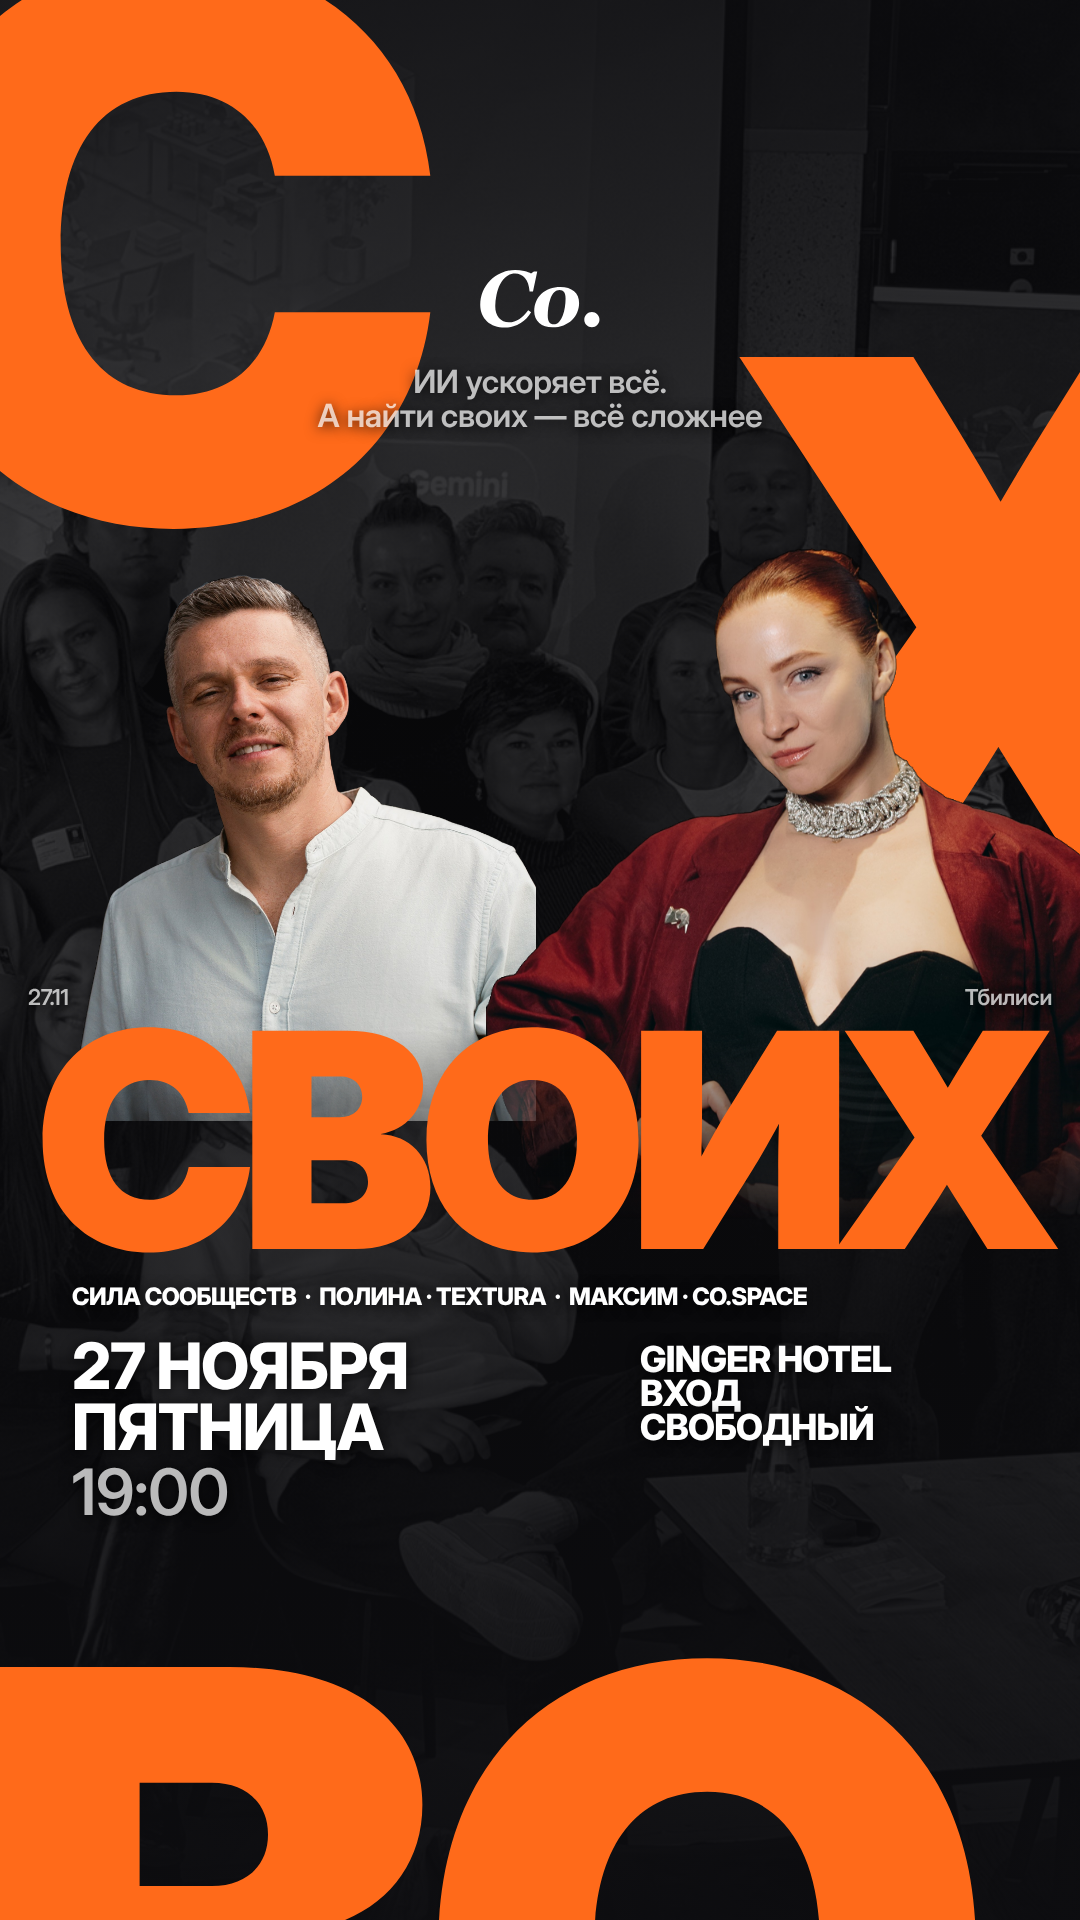
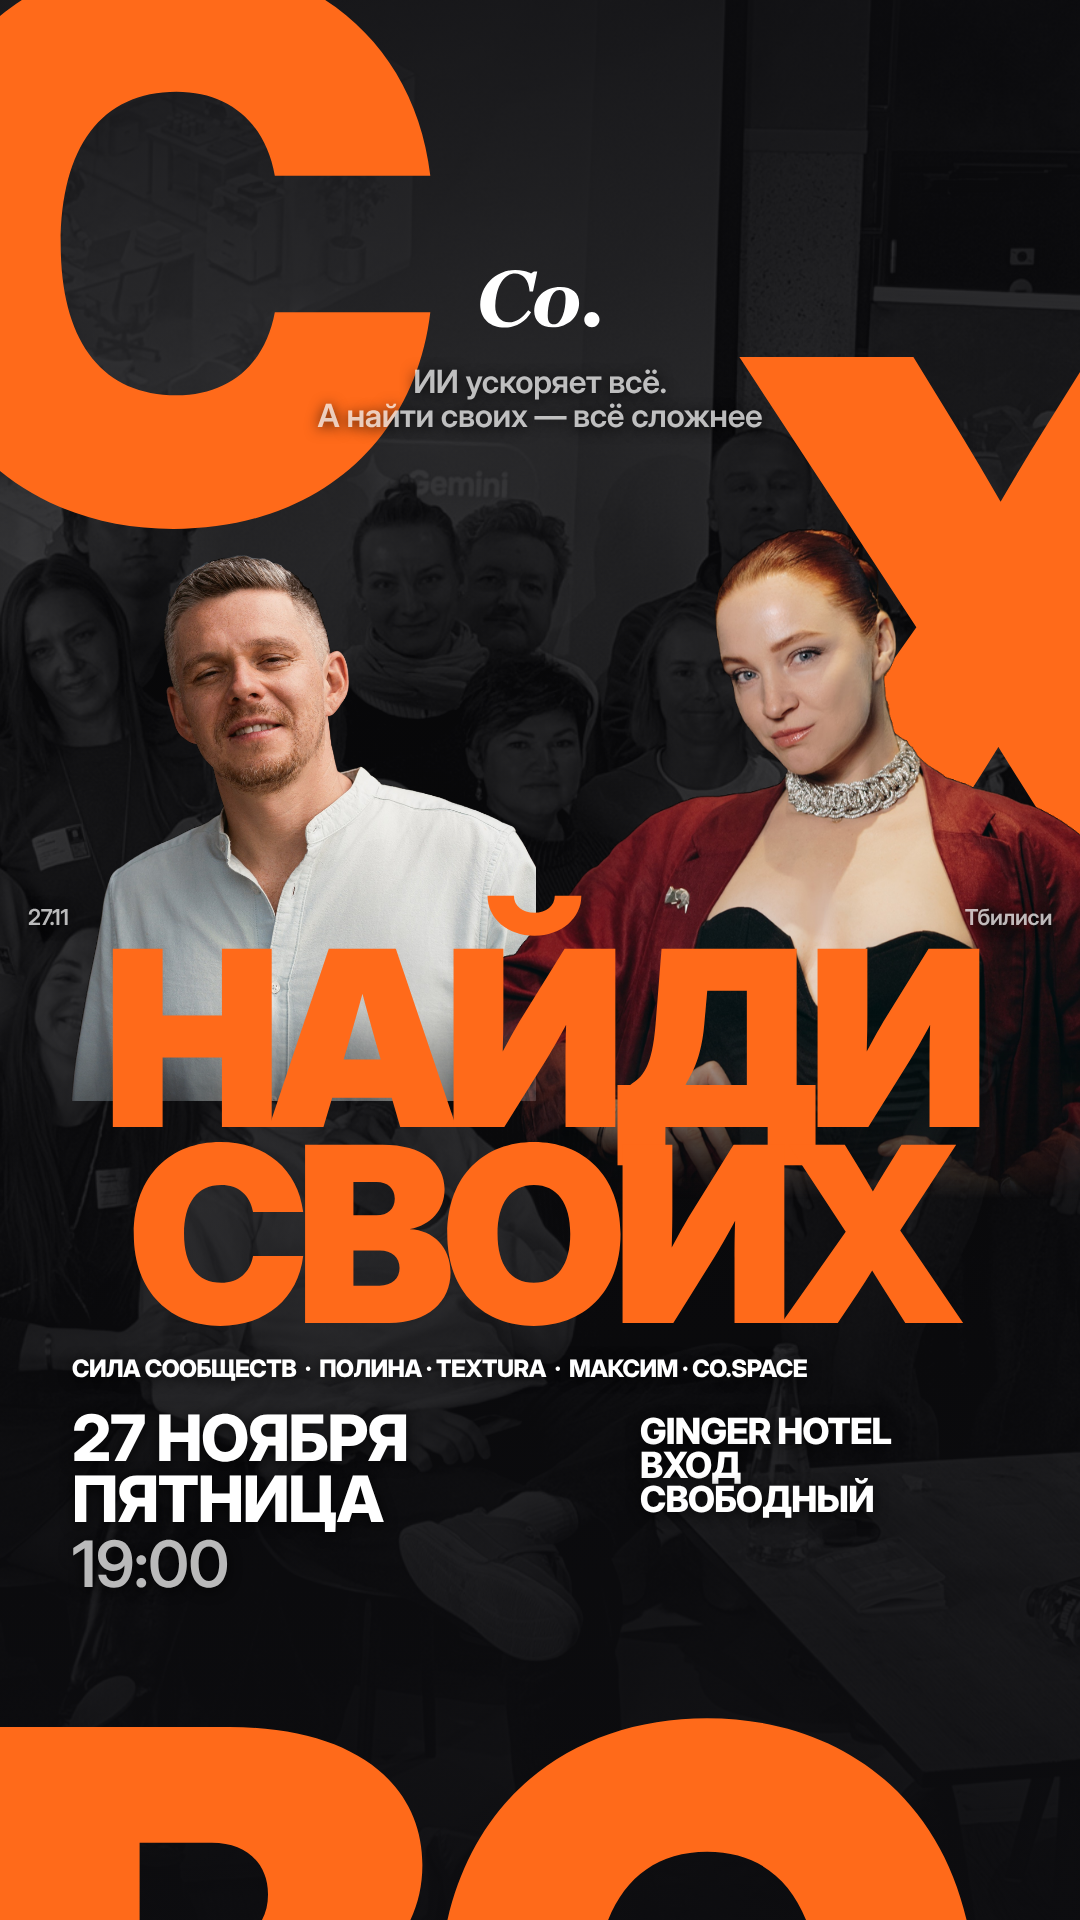
Вариант A: заголовок «НАЙДИ СВОИХ»
Claude-Session: https://claude.ai/code/session_01EUhV7vaX3V2s8FuVCAhgM5

Changed region(s): [[0.0, 0.2812, 1.0, 1.0], [0.8861, 0.9688, 0.9167, 1.0]]

diff --git a/creatives/src/poster/edA-9x16.html b/creatives/src/poster/edA-9x16.html
@@ -14,7 +14,7 @@ body{background:#0D0D10}
 .title{position:absolute;left:0;right:0;text-align:center;font-weight:900;color:#FF6A1A;letter-spacing:-.05em;line-height:.8}
 .logo svg{display:block}
 .logo svg path{fill:#fff}
-</style></head><body><div class="bg"></div><div class="sh"></div><div class="L" style="left:-110px;top:-60px;font-size:760px">С</div><div class="L" style="right:-170px;top:330px;font-size:760px">Х</div><div class="person" style="left:71px;top:575px;height:546px;-webkit-mask-image:linear-gradient(180deg,#000 83.3%,transparent 118.1%);"><img src="max_cut.png"></div><div class="person" style="left:486px;top:545px;height:910px;-webkit-mask-image:linear-gradient(180deg,#000 53.2%,transparent 74.1%);"><img src="polina_cut.png"></div><div class="L" style="left:-40px;top:1640px;font-size:760px">ВО</div><div class="title" style="top:1020px;font-size:300px">СВОИХ</div><div class="abs t" style="left:28px;top:986px;font-size:22px">27.11</div><div class="abs t" style="right:28px;top:986px;font-size:22px">Тбилиси</div><div class="abs t" style="left:0;right:0;top:365px;text-align:center;font-size:32px">ИИ ускоряет всё.<br>А найти своих — всё сложнее</div><div class="abs tb" style="left:72px;top:1286px;font-size:24px">СИЛА СООБЩЕСТВ &nbsp;·&nbsp; ПОЛИНА · TEXTURA &nbsp;·&nbsp; МАКСИМ · CO.SPACE</div><div class="abs" style="left:72px;top:1336px"><div class="tb" style="font-size:64px">27 НОЯБРЯ<br>ПЯТНИЦА</div><div class="t" style="font-size:64px">19:00</div></div><div class="abs tb" style="left:640px;top:1342px;font-size:36px">GINGER HOTEL<br>ВХОД<br>СВОБОДНЫЙ</div><div class="abs logo" style="left:50%;transform:translateX(-50%);top:270px"><svg width="120" height="59" viewBox="0 0 77 38" fill="none" xmlns="http://www.w3.org/2000/svg">
+</style></head><body><div class="bg"></div><div class="sh"></div><div class="L" style="left:-110px;top:-60px;font-size:760px">С</div><div class="L" style="right:-170px;top:330px;font-size:760px">Х</div><div class="person" style="left:71px;top:555px;height:546px;-webkit-mask-image:linear-gradient(180deg,#000 83.3%,transparent 118.1%);"><img src="max_cut.png"></div><div class="person" style="left:486px;top:525px;height:910px;-webkit-mask-image:linear-gradient(180deg,#000 53.2%,transparent 74.1%);"><img src="polina_cut.png"></div><div class="L" style="left:-40px;top:1700px;font-size:760px">ВО</div><div class="title" style="top:940px;font-size:245px">НАЙДИ<br>СВОИХ</div><div class="abs t" style="left:28px;top:906px;font-size:22px">27.11</div><div class="abs t" style="right:28px;top:906px;font-size:22px">Тбилиси</div><div class="abs t" style="left:0;right:0;top:365px;text-align:center;font-size:32px">ИИ ускоряет всё.<br>А найти своих — всё сложнее</div><div class="abs tb" style="left:72px;top:1358px;font-size:24px">СИЛА СООБЩЕСТВ &nbsp;·&nbsp; ПОЛИНА · TEXTURA &nbsp;·&nbsp; МАКСИМ · CO.SPACE</div><div class="abs" style="left:72px;top:1408px"><div class="tb" style="font-size:64px">27 НОЯБРЯ<br>ПЯТНИЦА</div><div class="t" style="font-size:64px">19:00</div></div><div class="abs tb" style="left:640px;top:1414px;font-size:36px">GINGER HOTEL<br>ВХОД<br>СВОБОДНЫЙ</div><div class="abs logo" style="left:50%;transform:translateX(-50%);top:270px"><svg width="120" height="59" viewBox="0 0 77 38" fill="none" xmlns="http://www.w3.org/2000/svg">
 <path d="M15.6912 37.0447C13.4308 37.0447 11.3353 36.7143 9.40484 36.0537C7.47438 35.3761 5.80789 34.4098 4.40543 33.1545C3.01945 31.8988 1.93872 30.371 1.16323 28.5701C0.387743 26.7532 0 24.7047 0 22.425C0 19.402 0.552742 16.5524 1.65822 13.8763C2.78021 11.2001 4.35593 8.81309 6.38539 6.71513C8.33235 4.69976 10.7083 3.08086 13.5133 1.85843C16.3347 0.619476 19.3294 0 22.4974 0C24.4114 0 26.35 0.231271 28.3134 0.693814C30.2771 1.15636 31.7455 1.69323 32.7189 2.30445L34.5753 0.941605H36.7283L33.9811 13.7772H31.8034C31.4733 10.0273 30.4751 7.17767 28.8084 5.22837C27.1585 3.26258 25.0301 2.27967 22.4231 2.27967C20.5092 2.27967 18.7437 2.8496 17.1267 3.98942C15.5098 5.12927 14.0743 6.88031 12.8203 9.24259C11.7973 11.1919 11.0136 13.455 10.4691 16.0321C9.9411 18.5925 9.67709 20.9961 9.67709 23.2428C9.67709 26.5468 10.4773 29.1154 12.0778 30.9491C13.6783 32.7828 15.8232 33.6994 18.5127 33.6994C20.8722 33.6994 23.0584 33.0387 25.0713 31.7171C27.0844 30.3957 29.023 28.4875 30.8875 25.9932L32.7933 27.2816C31.9848 28.5372 31.0196 29.776 29.8976 30.9985C28.7755 32.2044 27.4968 33.2536 26.0613 34.1455C24.5598 35.0871 23.0089 35.8056 21.4084 36.3014C19.8244 36.7969 17.9187 37.0447 15.6912 37.0447Z" fill="white"/>
 <path d="M63.6817 21.2605C63.6817 23.342 63.2858 25.3326 62.4936 27.2323C61.7017 29.132 60.5797 30.784 59.1278 32.188C57.5603 33.6914 55.7205 34.856 53.6085 35.6819C51.5131 36.4914 49.1536 36.8962 46.5303 36.8962C43.0159 36.8962 40.178 35.9628 38.0163 34.0962C35.8548 32.213 34.7741 29.6523 34.7741 26.4146C34.7741 24.2175 35.1783 22.1774 35.9869 20.2942C36.8119 18.411 37.9587 16.7673 39.4271 15.3631C40.8792 13.992 42.6611 12.91 44.7731 12.1171C46.8851 11.3076 49.1701 10.9029 51.6285 10.9029C55.3575 10.9029 58.2946 11.8197 60.4395 13.6534C62.6009 15.4705 63.6817 18.0062 63.6817 21.2605ZM54.9699 18.4605C54.9699 16.5277 54.6398 15.1071 53.9799 14.1985C53.3363 13.29 52.396 12.8357 51.1585 12.8357C49.8879 12.8357 48.7246 13.3478 47.6686 14.372C46.6129 15.3797 45.7547 16.8664 45.0947 18.8322C44.5172 20.4676 44.1048 22.2434 43.8573 24.1597C43.6098 26.0594 43.4862 27.7609 43.4862 29.2641C43.4862 31.263 43.816 32.7167 44.4761 33.6254C45.136 34.5172 46.0929 34.9633 47.3469 34.9633C48.6999 34.9633 49.8713 34.4099 50.8613 33.3032C51.8513 32.1964 52.6351 30.8335 53.2127 29.2146C53.7902 27.6287 54.2274 25.8777 54.5243 23.9615C54.8213 22.0287 54.9699 20.195 54.9699 18.4605Z" fill="white"/>
 <path d="M76.8 31.9899C76.8 33.295 76.3132 34.4265 75.3397 35.3847C74.3829 36.3428 73.2443 36.8218 71.9243 36.8218C70.5879 36.8218 69.433 36.351 68.4593 35.4094C67.5025 34.4512 67.0238 33.3113 67.0238 31.9899C67.0238 30.6683 67.5025 29.5284 68.4593 28.5702C69.433 27.5958 70.5879 27.1084 71.9243 27.1084C73.2443 27.1084 74.3829 27.5958 75.3397 28.5702C76.3132 29.545 76.8 30.6849 76.8 31.9899Z" fill="white"/>

diff --git a/creatives/src/poster/edA-4x5.html b/creatives/src/poster/edA-4x5.html
@@ -14,7 +14,7 @@ body{background:#0D0D10}
 .title{position:absolute;left:0;right:0;text-align:center;font-weight:900;color:#FF6A1A;letter-spacing:-.05em;line-height:.8}
 .logo svg{display:block}
 .logo svg path{fill:#fff}
-</style></head><body><div class="bg"></div><div class="sh"></div><div class="L" style="left:-90px;top:-70px;font-size:560px">С</div><div class="L" style="right:-140px;top:150px;font-size:560px">Х</div><div class="person" style="left:85px;top:314px;height:506px;-webkit-mask-image:linear-gradient(180deg,#000 82.2%,transparent 115.8%);"><img src="max_cut.png"></div><div class="person" style="left:508px;top:287px;height:844px;-webkit-mask-image:linear-gradient(180deg,#000 52.5%,transparent 72.7%);"><img src="polina_cut.png"></div><div class="L" style="left:-30px;top:1200px;font-size:560px">ВО</div><div class="title" style="top:690px;font-size:250px">СВОИХ</div><div class="abs t" style="left:28px;top:656px;font-size:22px">27.11</div><div class="abs t" style="right:28px;top:656px;font-size:22px">Тбилиси</div><div class="abs t" style="left:0;right:0;top:150px;text-align:center;font-size:28px">ИИ ускоряет всё.<br>А найти своих — всё сложнее</div><div class="abs tb" style="left:72px;top:916px;font-size:24px">СИЛА СООБЩЕСТВ &nbsp;·&nbsp; ПОЛИНА · TEXTURA &nbsp;·&nbsp; МАКСИМ · CO.SPACE</div><div class="abs" style="left:72px;top:966px"><div class="tb" style="font-size:54px">27 НОЯБРЯ<br>ПЯТНИЦА</div><div class="t" style="font-size:54px">19:00</div></div><div class="abs tb" style="left:640px;top:972px;font-size:32px">GINGER HOTEL<br>ВХОД<br>СВОБОДНЫЙ</div><div class="abs logo" style="left:50%;transform:translateX(-50%);top:60px"><svg width="120" height="59" viewBox="0 0 77 38" fill="none" xmlns="http://www.w3.org/2000/svg">
+</style></head><body><div class="bg"></div><div class="sh"></div><div class="L" style="left:-90px;top:-70px;font-size:560px">С</div><div class="L" style="right:-140px;top:150px;font-size:560px">Х</div><div class="person" style="left:85px;top:279px;height:506px;-webkit-mask-image:linear-gradient(180deg,#000 82.2%,transparent 115.8%);"><img src="max_cut.png"></div><div class="person" style="left:508px;top:252px;height:844px;-webkit-mask-image:linear-gradient(180deg,#000 52.5%,transparent 72.7%);"><img src="polina_cut.png"></div><div class="L" style="left:-30px;top:1235px;font-size:560px">ВО</div><div class="title" style="top:590px;font-size:212px">НАЙДИ<br>СВОИХ</div><div class="abs t" style="left:28px;top:556px;font-size:22px">27.11</div><div class="abs t" style="right:28px;top:556px;font-size:22px">Тбилиси</div><div class="abs t" style="left:0;right:0;top:150px;text-align:center;font-size:28px">ИИ ускоряет всё.<br>А найти своих — всё сложнее</div><div class="abs tb" style="left:72px;top:955px;font-size:24px">СИЛА СООБЩЕСТВ &nbsp;·&nbsp; ПОЛИНА · TEXTURA &nbsp;·&nbsp; МАКСИМ · CO.SPACE</div><div class="abs" style="left:72px;top:1005px"><div class="tb" style="font-size:54px">27 НОЯБРЯ<br>ПЯТНИЦА</div><div class="t" style="font-size:54px">19:00</div></div><div class="abs tb" style="left:640px;top:1011px;font-size:32px">GINGER HOTEL<br>ВХОД<br>СВОБОДНЫЙ</div><div class="abs logo" style="left:50%;transform:translateX(-50%);top:60px"><svg width="120" height="59" viewBox="0 0 77 38" fill="none" xmlns="http://www.w3.org/2000/svg">
 <path d="M15.6912 37.0447C13.4308 37.0447 11.3353 36.7143 9.40484 36.0537C7.47438 35.3761 5.80789 34.4098 4.40543 33.1545C3.01945 31.8988 1.93872 30.371 1.16323 28.5701C0.387743 26.7532 0 24.7047 0 22.425C0 19.402 0.552742 16.5524 1.65822 13.8763C2.78021 11.2001 4.35593 8.81309 6.38539 6.71513C8.33235 4.69976 10.7083 3.08086 13.5133 1.85843C16.3347 0.619476 19.3294 0 22.4974 0C24.4114 0 26.35 0.231271 28.3134 0.693814C30.2771 1.15636 31.7455 1.69323 32.7189 2.30445L34.5753 0.941605H36.7283L33.9811 13.7772H31.8034C31.4733 10.0273 30.4751 7.17767 28.8084 5.22837C27.1585 3.26258 25.0301 2.27967 22.4231 2.27967C20.5092 2.27967 18.7437 2.8496 17.1267 3.98942C15.5098 5.12927 14.0743 6.88031 12.8203 9.24259C11.7973 11.1919 11.0136 13.455 10.4691 16.0321C9.9411 18.5925 9.67709 20.9961 9.67709 23.2428C9.67709 26.5468 10.4773 29.1154 12.0778 30.9491C13.6783 32.7828 15.8232 33.6994 18.5127 33.6994C20.8722 33.6994 23.0584 33.0387 25.0713 31.7171C27.0844 30.3957 29.023 28.4875 30.8875 25.9932L32.7933 27.2816C31.9848 28.5372 31.0196 29.776 29.8976 30.9985C28.7755 32.2044 27.4968 33.2536 26.0613 34.1455C24.5598 35.0871 23.0089 35.8056 21.4084 36.3014C19.8244 36.7969 17.9187 37.0447 15.6912 37.0447Z" fill="white"/>
 <path d="M63.6817 21.2605C63.6817 23.342 63.2858 25.3326 62.4936 27.2323C61.7017 29.132 60.5797 30.784 59.1278 32.188C57.5603 33.6914 55.7205 34.856 53.6085 35.6819C51.5131 36.4914 49.1536 36.8962 46.5303 36.8962C43.0159 36.8962 40.178 35.9628 38.0163 34.0962C35.8548 32.213 34.7741 29.6523 34.7741 26.4146C34.7741 24.2175 35.1783 22.1774 35.9869 20.2942C36.8119 18.411 37.9587 16.7673 39.4271 15.3631C40.8792 13.992 42.6611 12.91 44.7731 12.1171C46.8851 11.3076 49.1701 10.9029 51.6285 10.9029C55.3575 10.9029 58.2946 11.8197 60.4395 13.6534C62.6009 15.4705 63.6817 18.0062 63.6817 21.2605ZM54.9699 18.4605C54.9699 16.5277 54.6398 15.1071 53.9799 14.1985C53.3363 13.29 52.396 12.8357 51.1585 12.8357C49.8879 12.8357 48.7246 13.3478 47.6686 14.372C46.6129 15.3797 45.7547 16.8664 45.0947 18.8322C44.5172 20.4676 44.1048 22.2434 43.8573 24.1597C43.6098 26.0594 43.4862 27.7609 43.4862 29.2641C43.4862 31.263 43.816 32.7167 44.4761 33.6254C45.136 34.5172 46.0929 34.9633 47.3469 34.9633C48.6999 34.9633 49.8713 34.4099 50.8613 33.3032C51.8513 32.1964 52.6351 30.8335 53.2127 29.2146C53.7902 27.6287 54.2274 25.8777 54.5243 23.9615C54.8213 22.0287 54.9699 20.195 54.9699 18.4605Z" fill="white"/>
 <path d="M76.8 31.9899C76.8 33.295 76.3132 34.4265 75.3397 35.3847C74.3829 36.3428 73.2443 36.8218 71.9243 36.8218C70.5879 36.8218 69.433 36.351 68.4593 35.4094C67.5025 34.4512 67.0238 33.3113 67.0238 31.9899C67.0238 30.6683 67.5025 29.5284 68.4593 28.5702C69.433 27.5958 70.5879 27.1084 71.9243 27.1084C73.2443 27.1084 74.3829 27.5958 75.3397 28.5702C76.3132 29.545 76.8 30.6849 76.8 31.9899Z" fill="white"/>

diff --git a/creatives/src/poster/build_editorial.py b/creatives/src/poster/build_editorial.py
@@ -46,7 +46,7 @@ def poster_a(fmt):
     story = fmt == "9x16"
     H = 1920 if story else 1350
     F = 178 if story else 165
-    fy = 700 if story else 430
+    fy = 680 if story else 395
     s = []
     s.append('<div class="bg"></div><div class="sh"></div>')
     # задние буквы
@@ -61,18 +61,18 @@ def poster_a(fmt):
     s.append(place(PCUT, F, 785, fy, "polina_cut.png", fade))
     # передние нижние буквы
     if story:
-        s.append('<div class="L" style="left:-40px;top:1640px;font-size:760px">ВО</div>')
+        s.append('<div class="L" style="left:-40px;top:1700px;font-size:760px">ВО</div>')
     else:
-        s.append('<div class="L" style="left:-30px;top:1200px;font-size:560px">ВО</div>')
+        s.append('<div class="L" style="left:-30px;top:1235px;font-size:560px">ВО</div>')
     # центр
-    ty = 1020 if story else 690
-    ts = 300 if story else 250
-    s.append(f'<div class="title" style="top:{ty}px;font-size:{ts}px">СВОИХ</div>')
+    ty = 940 if story else 590
+    ts = 245 if story else 212
+    s.append(f'<div class="title" style="top:{ty}px;font-size:{ts}px">НАЙДИ<br>СВОИХ</div>')
     s.append(f'<div class="abs t" style="left:28px;top:{ty - 34}px;font-size:22px">27.11</div>')
     s.append(f'<div class="abs t" style="right:28px;top:{ty - 34}px;font-size:22px">Тбилиси</div>')
     tl = (270 + 95) if story else 150
     s.append(f'<div class="abs t" style="left:0;right:0;top:{tl}px;text-align:center;font-size:{32 if story else 28}px">ИИ ускоряет всё.<br>А найти своих — всё сложнее</div>')
-    by = ty + ts * .8 + 26
+    by = ty + ts * 1.6 + 26
     s.append(f'<div class="abs tb" style="left:72px;top:{by:.0f}px;font-size:24px">СИЛА СООБЩЕСТВ &nbsp;·&nbsp; ПОЛИНА · TEXTURA &nbsp;·&nbsp; МАКСИМ · CO.SPACE</div>')
     ds = 64 if story else 54
     s.append(f'<div class="abs" style="left:72px;top:{by + 50:.0f}px"><div class="tb" style="font-size:{ds}px">27 НОЯБРЯ<br>ПЯТНИЦА</div><div class="t" style="font-size:{ds}px">19:00</div></div>')
